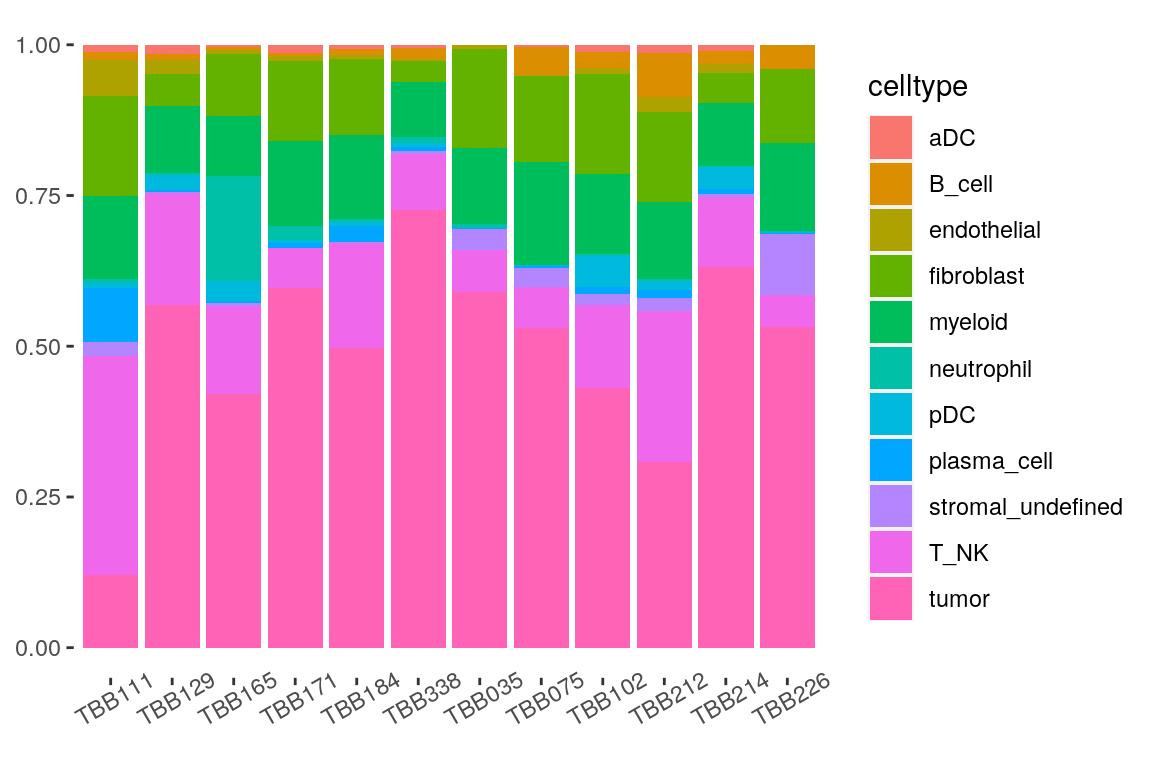
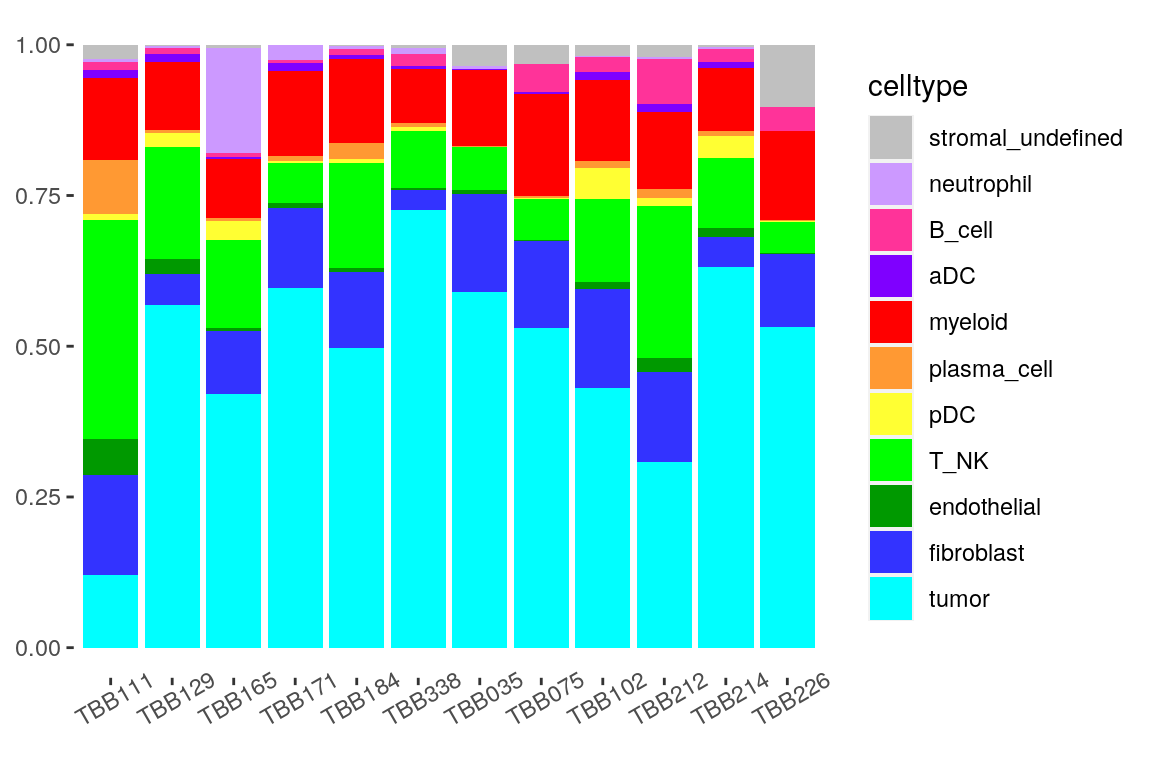
Build site.

diff --git a/docs/05_proteinPanel_StromalSubclustering.html b/docs/05_proteinPanel_StromalSubclustering.html
@@ -413,7 +413,7 @@ div.tocify {
 <div class="tab-content">
 <div id="summary" class="tab-pane fade in active">
 <p>
-<strong>Last updated:</strong> 2020-11-06
+<strong>Last updated:</strong> 2020-11-25
 </p>
 <p>
 <strong>Checks:</strong> <span class="glyphicon glyphicon-ok text-success" aria-hidden="true"></span> 7 <span class="glyphicon glyphicon-exclamation-sign text-danger" aria-hidden="true"></span> 0
@@ -504,16 +504,16 @@ This reproducible <a href="http://rmarkdown.rstudio.com">R Markdown</a> analysis
 <div class="panel panel-default">
 <div class="panel-heading">
 <p class="panel-title">
-<a data-toggle="collapse" data-parent="#workflowr-checks" href="#strongRepositoryversionstrongahrefhttpsgithubcomSandraTietscherBCexhIMCtree11f349146fdc04986d986a9543279f5648a6e786targetblank11f3491a"> <span class="glyphicon glyphicon-ok text-success" aria-hidden="true"></span> <strong>Repository version:</strong> <a href="https://github.com/SandraTietscher/BCexh_IMC/tree/11f349146fdc04986d986a9543279f5648a6e786" target="_blank">11f3491</a> </a>
+<a data-toggle="collapse" data-parent="#workflowr-checks" href="#strongRepositoryversionstrongahrefhttpsgithubcomSandraTietscherBCexhIMCtree30ad478543ed28e29ea5314e303da4f30621d798targetblank30ad478a"> <span class="glyphicon glyphicon-ok text-success" aria-hidden="true"></span> <strong>Repository version:</strong> <a href="https://github.com/SandraTietscher/BCexh_IMC/tree/30ad478543ed28e29ea5314e303da4f30621d798" target="_blank">30ad478</a> </a>
 </p>
 </div>
[2 lines of base64/hex data omitted]
 <div class="panel-body">
 <p>
 Great! You are using Git for version control. Tracking code development and connecting the code version to the results is critical for reproducibility.
 </p>
 <p>
-The results in this page were generated with repository version <a href="https://github.com/SandraTietscher/BCexh_IMC/tree/11f349146fdc04986d986a9543279f5648a6e786" target="_blank">11f3491</a>. See the <em>Past versions</em> tab to see a history of the changes made to the R Markdown and HTML files.
+The results in this page were generated with repository version <a href="https://github.com/SandraTietscher/BCexh_IMC/tree/30ad478543ed28e29ea5314e303da4f30621d798" target="_blank">30ad478</a>. See the <em>Past versions</em> tab to see a history of the changes made to the R Markdown and HTML files.
 </p>
 <p>
 Note that you need to be careful to ensure that all relevant files for the analysis have been committed to Git prior to generating the results (you can use <code>wflow_publish</code> or <code>wflow_git_commit</code>). workflowr only checks the R Markdown file, but you know if there are other scripts or data files that it depends on. Below is the status of the Git repository when the results were generated:
@@ -521,17 +521,28 @@ Note that you need to be careful to ensure that all relevant files for the analy
 <pre><code>
 Ignored files:
     Ignored:    analysis/.Rhistory
+    Ignored:    analysis/figure/
 
 Untracked files:
-    Untracked:  analysis/11_RNAscope_cytokine_communities.Rmd
+    Untracked:  CD11c_CD68_scatter.png
+    Untracked:  Neighbourhood_TLS_relative.pdf
+    Untracked:  Neighbourhood_TLS_relative.png
+    Untracked:  Neighbourhood_all_relative.pdf
+    Untracked:  Neighbourhood_all_relative.png
+    Untracked:  analysis/13_proteinPanel_neighbourhood_extended.Rmd
     Untracked:  analysis/XX_RNApanel_neighbourhood.Rmd
-    Untracked:  data/Ki67_IHC.csv
+    Untracked:  cytokine_environment.png
     Untracked:  data/RNAseq_Tcells.rds
     Untracked:  data/RNAseq_epithelial.rds
     Untracked:  data/ROI_info_HIER.csv
     Untracked:  data/ROI_info_RNAscope.csv
     Untracked:  data/cpout/
     Untracked:  data/masks/
+    Untracked:  heatmap_markerexpression_myeloid_sub.png
+    Untracked:  neighbourhood_myeloid_TIGdifference.png
+    Untracked:  neighbourhood_myeloid_TLS_relative.png
+    Untracked:  neighbourhood_myeloid_all_relative.png
+    Untracked:  neighbourhood_myeloid_split_TLS.png
     Untracked:  output/ProteinPanel/
     Untracked:  output/RNApanel/
     Untracked:  output/TLS_score_25samples.png
@@ -541,6 +552,12 @@ Untracked files:
     Untracked:  output/sce_RNApanel_afterQC.rds
     Untracked:  output/sce_RNApanel_initial.rds
     Untracked:  output/sce_RNApanel_initial_TLSrevised.rds
+    Untracked:  test.pdf
+    Untracked:  test.png
+    Untracked:  test_Treg_enrichment.png
+
+Unstaged changes:
+    Modified:   analysis/11_RNAscope_cytokine_communities.Rmd
 
 </code></pre>
 <p>
@@ -579,6 +596,40 @@ Message
 </tr>
 </thead>
 <tbody>
+<tr>
+<td>
+Rmd
+</td>
+<td>
+<a href="https://github.com/SandraTietscher/BCexh_IMC/blob/30ad478543ed28e29ea5314e303da4f30621d798/analysis/05_proteinPanel_StromalSubclustering.Rmd" target="_blank">30ad478</a>
+</td>
+<td>
+SandraTietscher
+</td>
+<td>
+2020-11-25
+</td>
+<td>
+Figure updates for Supplemental Fig. S2
+</td>
+</tr>
+<tr>
+<td>
+html
+</td>
+<td>
+<a href="https://rawcdn.githack.com/SandraTietscher/BCexh_IMC/07fbe3320c8599bfb4d2ddf8d527328b5ee214c4/docs/05_proteinPanel_StromalSubclustering.html" target="_blank">07fbe33</a>
+</td>
+<td>
+SandraTietscher
+</td>
+<td>
+2020-11-06
+</td>
+<td>
+Build site.
+</td>
+</tr>
 <tr>
 <td>
 Rmd
@@ -756,6 +807,7 @@ library(cowplot)
 library(ggpubr)
 library(scran)
 library(plyr)
+library(patchwork)
 
 # Read SingleCellExperiment object (with stromal cells only)
 sce_stromal &lt;- readRDS(paste0(getwd(), &quot;/output/ProteinPanel/sce_ProteinPanel_stroma.rds&quot;))</code></pre>
@@ -1227,6 +1279,17 @@ Date
 <tbody>
 <tr>
 <td>
+<a href="https://github.com/SandraTietscher/BCexh_IMC/blob/07fbe3320c8599bfb4d2ddf8d527328b5ee214c4/docs/figure/05_proteinPanel_StromalSubclustering.Rmd/stromal-labels-1.png" target="_blank">07fbe33</a>
+</td>
+<td>
+SandraTietscher
+</td>
+<td>
+2020-11-06
+</td>
+</tr>
+<tr>
+<td>
 <a href="https://github.com/SandraTietscher/BCexh_IMC/blob/84af25eba94c950776252dbe4f71eba992859dfb/docs/figure/05_proteinPanel_StromalSubclustering.Rmd/stromal-labels-1.png" target="_blank">84af25e</a>
 </td>
 <td>
@@ -1349,6 +1412,17 @@ Date
 <tbody>
 <tr>
 <td>
+<a href="https://github.com/SandraTietscher/BCexh_IMC/blob/07fbe3320c8599bfb4d2ddf8d527328b5ee214c4/docs/figure/05_proteinPanel_StromalSubclustering.Rmd/plot-celltype-umap-1.png" target="_blank">07fbe33</a>
+</td>
+<td>
+SandraTietscher
+</td>
+<td>
+2020-11-06
+</td>
+</tr>
+<tr>
+<td>
 <a href="https://github.com/SandraTietscher/BCexh_IMC/blob/84af25eba94c950776252dbe4f71eba992859dfb/docs/figure/05_proteinPanel_StromalSubclustering.Rmd/plot-celltype-umap-1.png" target="_blank">84af25e</a>
 </td>
 <td>
@@ -1363,17 +1437,39 @@ SandraTietscher
 </div>
 </div>
 </div>
+<div id="plot-expression-heatmap-with-celltype-labels" class="section level2">
+<h2>Plot expression heatmap with celltype labels</h2>
+<pre class="r"><code># dittoHeatmap(clustermean[markers_include_umap,], assay = &quot;normalized&quot;, scale = &quot;none&quot;,
+#             heatmap.colors = viridis(100), 
+#             cluster_cols = TRUE, show_colnames = TRUE, annot.by = &quot;celltype&quot;, annot.colors = 
+#               c(&quot;#7F00FF&quot;, &quot;#FF3399&quot;, &quot;#009900&quot;, &quot;#3333FF&quot;, &quot;#FF0000&quot;, &quot;#CC99FF&quot;, &quot;#FFFF33&quot;, &quot;#FF9933&quot;, &quot;#C0C0C0&quot;, &quot;#00FF00&quot;))    </code></pre>
+</div>
 <div id="plot-celltype-proportions-per-sample-and-per-image" class="section level2">
 <h2>Plot celltype proportions per sample and per image</h2>
 <p>Include TLS and pre-TLS images.</p>
-<pre class="r"><code># Plot cell type frequencies per sample
+<pre class="r"><code>celltype_colors = c(tumor = &quot;#00FFFF&quot;,
+                          fibroblast = &quot;#3333FF&quot;,
+                          endothelial = &quot;#009900&quot;,
+                          T_NK = &quot;#00FF00&quot;,
+                          pDC = &quot;#FFFF33&quot;,
+                          plasma_cell = &quot;#FF9933&quot;,
+                          myeloid = &quot;#FF0000&quot;,
+                          aDC = &quot;#7F00FF&quot;,
+                          B_cell = &quot;#FF3399&quot;,
+                          neutrophil = &quot;#CC99FF&quot;,
+                          stromal_undefined = &quot;#C0C0C0&quot;
+                          )
+
+# Plot cell type frequencies per sample
 tab &lt;- as.data.frame(prop.table(table(sce_Protein$sample, sce_Protein$celltype), margin = 1))
 colnames(tab) &lt;- c(&quot;sample&quot;, &quot;celltype&quot;, &quot;proportion&quot;)
+tab$celltype &lt;- factor(tab$celltype, levels = rev(names(celltype_colors)))
 
 ggplot(tab, aes(sample, y = proportion, fill=celltype)) +
   geom_bar(stat=&quot;identity&quot;)+
   theme(axis.title.x=element_blank(), axis.title.y = element_blank())+
-  theme(panel.background = element_blank(), axis.text.x = element_text(angle = 30))</code></pre>
+  theme(panel.background = element_blank(), axis.text.x = element_text(angle = 30))+
+  scale_fill_manual(values = celltype_colors)</code></pre>
 <p><img src="figure/05_proteinPanel_StromalSubclustering.Rmd/celltype-proportion-sample-1.png" width="576" style="display: block; margin: auto;" /></p>
 <p>
 <button type="button" class="btn btn-default btn-xs btn-workflowr btn-workflowr-fig" data-toggle="collapse" data-target="#fig-celltype-proportion-sample-1">
@@ -1416,10 +1512,39 @@ SandraTietscher
 tab &lt;- as.data.frame(prop.table(table(sce_Protein$ImageNumber, sce_Protein$celltype), margin = 1))
 colnames(tab) &lt;- c(&quot;image&quot;, &quot;celltype&quot;, &quot;proportion&quot;)
 
-ggplot(tab, aes(image, y = proportion, fill=celltype)) +
+# Order images by tumor cell content
+tumor_tab &lt;- filter(tab, celltype == &quot;tumor&quot;)
+order &lt;- tumor_tab[order(tumor_tab$proportion),]$image
+tab$image &lt;- factor(tab$image, levels = order)
+tab$celltype &lt;- factor(tab$celltype, levels = rev(names(celltype_colors)))
+
+p_proportion &lt;- ggplot(tab, aes(image, y = proportion, fill=celltype)) +
   geom_bar(stat=&quot;identity&quot;)+
   theme(axis.title.x=element_blank(), axis.title.y = element_blank())+
-  theme(panel.background = element_blank(), axis.text.x = element_text(angle = 30))</code></pre>
+  theme(panel.background = element_blank(), axis.text.x = element_text(angle = 30))+
+  scale_fill_manual(values = celltype_colors)
+
+# Plot image metadata
+ROI_info &lt;- read.csv(&quot;data/ROI_info_HIER_TLSrevised.csv&quot;)
+ROI_info$RNApanel_ImageNumber &lt;- factor(ROI_info$RNApanel_ImageNumber, levels = order)
+ROI_info$sample &lt;- factor(ROI_info$sample, levels = levels(sce_stromal$sample))
+
+p_sample &lt;- ggplot(ROI_info, aes(x = RNApanel_ImageNumber, y = &quot;sample&quot;, fill = sample))+
+  geom_tile()+
+  scale_fill_manual(values = metadata(sce_stromal)$colour_vectors$sample)+
+  theme(panel.background = element_blank(), axis.text.x = element_blank(), axis.title = element_blank(), axis.ticks = element_blank())
+
+p_TLS &lt;- ggplot(ROI_info, aes(x = RNApanel_ImageNumber, y = &quot;TLS&quot;, fill = TLS))+
+  geom_tile()+
+  scale_fill_manual(values = metadata(sce_stromal)$colour_vectors$TLS)+
+  theme(panel.background = element_blank(), axis.text.x = element_blank(), axis.title = element_blank(), axis.ticks = element_blank())
+
+p_TIG &lt;- ggplot(ROI_info, aes(x = RNApanel_ImageNumber, y = &quot;TIG&quot;, fill = TIG))+
+  geom_tile()+
+  scale_fill_manual(values = metadata(sce_stromal)$colour_vectors$TIG)+
+  theme(panel.background = element_blank(), axis.text.x = element_blank(), axis.title = element_blank(), axis.ticks = element_blank())
+
+p_TLS/p_TIG/p_sample/p_proportion + plot_layout(heights = c(1,1,1,20), guides = &quot;collect&quot;)</code></pre>
 <p><img src="figure/05_proteinPanel_StromalSubclustering.Rmd/celltype-proportion-image-1.png" width="768" style="display: block; margin: auto;" /></p>
 <p>
 <button type="button" class="btn btn-default btn-xs btn-workflowr btn-workflowr-fig" data-toggle="collapse" data-target="#fig-celltype-proportion-image-1">
@@ -1461,7 +1586,9 @@ SandraTietscher
 </div>
 <div id="compare-celltype-proportions-per-tig" class="section level2">
 <h2>Compare celltype proportions per TIG</h2>
-<pre class="r"><code>tab &lt;- as.data.frame(prop.table(table(sce_Protein$sample, sce_Protein$celltype), margin = 1))
+<p>Exclude TLS and pre-TLS.</p>
+<pre class="r"><code>sce_TLSex &lt;- sce_Protein[,which(sce_Protein$TLS == &quot;no&quot;)]
+tab &lt;- as.data.frame(prop.table(table(sce_TLSex$sample, sce_TLSex$celltype), margin = 1))
 colnames(tab) &lt;- c(&quot;sample&quot;, &quot;celltype&quot;, &quot;proportion&quot;)
 TIG2 &lt;- c(&quot;TBB111&quot;, &quot;TBB129&quot;, &quot;TBB165&quot;, &quot;TBB171&quot;, &quot;TBB184&quot;, &quot;TBB338&quot;)
 tab$TIG &lt;- ifelse(tab$sample %in% TIG2, &quot;TIG2&quot;, &quot;TIG3&quot;)
@@ -1469,7 +1596,7 @@ tab$TIG &lt;- ifelse(tab$sample %in% TIG2, &quot;TIG2&quot;, &quot;TIG3&quot;)
 ggplot(tab, aes(x= TIG, y = proportion, color=TIG))+
   geom_boxplot()+
   geom_point()+
-  facet_wrap(~celltype, scales=&quot;free&quot;, ncol=6, strip.position=&quot;top&quot;)+
+  facet_wrap(~celltype, scales=&quot;fixed&quot;, ncol=6, strip.position=&quot;top&quot;)+
   theme(axis.ticks.x = element_blank(),
         axis.text.x=element_text(angle = 90, hjust=1),
         axis.title.x = element_blank(),
@@ -1478,7 +1605,7 @@ ggplot(tab, aes(x= TIG, y = proportion, color=TIG))+
         strip.background = element_blank(),
         legend.background = element_blank())+
   ylab(&quot;Of total [%]&quot;)+
-  stat_compare_means(method = &quot;wilcox.test&quot;, aes(label=..p.format..))</code></pre>
+  stat_compare_means(method = &quot;wilcox.test&quot;, aes(label=..p.format..), label.x.npc = &quot;middle&quot;, label.y.npc = 0.9)</code></pre>
 <p><img src="figure/05_proteinPanel_StromalSubclustering.Rmd/celltype-proportions-TIG-boxplot-1.png" width="960" style="display: block; margin: auto;" /></p>
 <p>
 <button type="button" class="btn btn-default btn-xs btn-workflowr btn-workflowr-fig" data-toggle="collapse" data-target="#fig-celltype-proportions-TIG-boxplot-1">
@@ -1556,7 +1683,7 @@ IMC_perc &lt;- filter(IMC_perc, sample != &quot;TBB338&quot;)
 
 ## Read in and adapt CyTOF celltypes ##
 cytof_perc &lt;- read.csv(paste0(getwd(), &quot;/data/cytof_celltype_prop.csv&quot;), row.names = 1)
-cytof_perc[&quot;other&quot;,] &lt;- cytof_perc[&quot;granulocyt&quot;,] + cytof_perc[&quot;other&quot;,]
+cytof_perc[&quot;other&quot;,] &lt;- cytof_perc[&quot;granulocyte&quot;,] + cytof_perc[&quot;other&quot;,]
 cytof_perc[&quot;myeloid&quot;, ] &lt;- cytof_perc[&quot;myeloid&quot;, ] + cytof_perc[&quot;dendritic cell&quot;, ]
 cytof_perc &lt;- cytof_perc[!(rownames(cytof_perc) %in% c(&quot;dendritic cell&quot;, &quot;granulocyte&quot;)),]
 rownames(cytof_perc) &lt;- c(&quot;endothelial&quot;, &quot;epithelial&quot;, &quot;fibroblast&quot;, &quot;B_cell&quot;, &quot;plasma_cell&quot;, &quot;myeloid&quot;, &quot;other&quot;, &quot;T_NK&quot;)
@@ -1628,6 +1755,7 @@ SandraTietscher
 <pre class="r"><code># Plot
 ggplot(celltype_perc, aes(x = method, y = proportion)) +
   geom_line(aes(group = sample, color = sample))+
+  scale_color_manual(values = sce_IMC@metadata$colour_vectors$sample)+
   facet_wrap(~celltype, scales = &quot;free&quot;, ncol = 4)+
   theme(axis.title.x = element_blank(),
         axis.text.x = element_text(angle = 30),
@@ -1769,6 +1897,48 @@ SandraTietscher
 </table>
 </div>
 </div>
+</div>
+</div>
+<div id="compare-cell-type-proportions-of-the-two-panels" class="section level1">
+<h1>Compare cell type proportions of the two panels</h1>
+<pre class="r"><code>sce_RNA &lt;- readRDS(&quot;output/RNApanel/sce_RNApanel_celltypes.rds&quot;)
+
+sce_RNA[,which(sce_RNA$celltype %in% c(&quot;stromal_SMA+&quot;, &quot;stromal_undefined&quot;))]$celltype &lt;- &quot;stromal&quot;
+sce_RNA[,which(sce_RNA$celltype == &quot;Bcell&quot;)]$celltype &lt;- &quot;B_cell&quot;
+sce_RNA[,which(sce_RNA$celltype %in% c(&quot;NK&quot;, &quot;T_CD4&quot;, &quot;T_CD8&quot;))]$celltype &lt;- &quot;T_NK&quot;
+
+sce_Protein[,which(sce_Protein$celltype %in% c(&quot;fibroblast&quot;, &quot;stromal_undefined&quot;, &quot;plasma_cell&quot;, &quot;pDC&quot;))]$celltype &lt;- &quot;stromal&quot;
+
+tab_protein &lt;- as.data.frame(prop.table(table(sce_Protein$ImageNumber, sce_Protein$celltype), margin = 1))
+tab_protein$panel &lt;- &quot;protein_panel&quot;
+tab_RNA &lt;- as.data.frame(prop.table(table(sce_RNA$ImageNumber, sce_RNA$celltype), margin = 1))
+tab_RNA$panel &lt;- &quot;RNA_panel&quot;
+
+tab_comb &lt;- rbind(tab_protein, tab_RNA)
+colnames(tab_comb) &lt;- c(&quot;ImageNumber&quot;, &quot;celltype&quot;, &quot;proportion&quot;, &quot;panel&quot;)
+
+# Plot
+ggplot(tab_comb, aes(panel, y = proportion, fill=celltype)) +
+  geom_bar(stat=&quot;identity&quot;)+
+  facet_wrap(~ImageNumber, ncol = 20)+
+  theme(axis.title.x=element_blank(), axis.title.y = element_blank())+
+  theme(panel.background = element_blank(), axis.text.x = element_text(angle = 30))</code></pre>
+<p><img src="figure/05_proteinPanel_StromalSubclustering.Rmd/celltype-comparison-panels-1.png" width="1440" style="display: block; margin: auto;" /></p>
+<pre class="r"><code>tab_protein &lt;- as.data.frame(prop.table(table(sce_Protein$sample, sce_Protein$celltype), margin = 1))
+tab_protein$panel &lt;- &quot;protein_panel&quot;
+tab_RNA &lt;- as.data.frame(prop.table(table(sce_RNA$sample, sce_RNA$celltype), margin = 1))
+tab_RNA$panel &lt;- &quot;RNA_panel&quot;
+
+tab_comb &lt;- rbind(tab_protein, tab_RNA)
+colnames(tab_comb) &lt;- c(&quot;sample&quot;, &quot;celltype&quot;, &quot;proportion&quot;, &quot;panel&quot;)
+
+# Plot
+ggplot(tab_comb, aes(panel, y = proportion, fill=celltype)) +
+  geom_bar(stat=&quot;identity&quot;)+
+  facet_wrap(~sample, ncol = 20)+
+  theme(axis.title.x=element_blank(), axis.title.y = element_blank())+
+  theme(panel.background = element_blank(), axis.text.x = element_text(angle = 30))</code></pre>
+<p><img src="figure/05_proteinPanel_StromalSubclustering.Rmd/celltype-comparison-panels-samplebased-1.png" width="960" style="display: block; margin: auto;" /></p>
 <br>
 <p>
 <button type="button" class="btn btn-default btn-workflowr btn-workflowr-sessioninfo" data-toggle="collapse" data-target="#workflowr-sessioninfo" style="display: block;">
@@ -1797,20 +1967,21 @@ attached base packages:
 [8] methods   base     
 
 other attached packages:
- [1] plyr_1.8.6                  scran_1.16.0               
- [3] ggpubr_0.4.0                cowplot_1.0.0              
- [5] viridis_0.5.1               viridisLite_0.3.0          
- [7] dittoSeq_1.0.2              forcats_0.5.0              
- [9] stringr_1.4.0               dplyr_1.0.1                
-[11] purrr_0.3.4                 readr_1.3.1                
-[13] tidyr_1.1.1                 tibble_3.0.3               
-[15] tidyverse_1.3.0             scater_1.16.2              
-[17] SingleCellExperiment_1.10.1 SummarizedExperiment_1.18.2
-[19] DelayedArray_0.14.1         matrixStats_0.56.0         
-[21] Biobase_2.48.0              GenomicRanges_1.40.0       
-[23] GenomeInfoDb_1.24.2         IRanges_2.22.2             
-[25] S4Vectors_0.26.1            BiocGenerics_0.34.0        
-[27] ggplot2_3.3.2               workflowr_1.6.2            
+ [1] patchwork_1.0.1             plyr_1.8.6                 
+ [3] scran_1.16.0                ggpubr_0.4.0               
+ [5] cowplot_1.0.0               viridis_0.5.1              
+ [7] viridisLite_0.3.0           dittoSeq_1.0.2             
+ [9] forcats_0.5.0               stringr_1.4.0              
+[11] dplyr_1.0.1                 purrr_0.3.4                
+[13] readr_1.3.1                 tidyr_1.1.1                
+[15] tibble_3.0.3                tidyverse_1.3.0            
+[17] scater_1.16.2               SingleCellExperiment_1.10.1
+[19] SummarizedExperiment_1.18.2 DelayedArray_0.14.1        
+[21] matrixStats_0.56.0          Biobase_2.48.0             
+[23] GenomicRanges_1.40.0        GenomeInfoDb_1.24.2        
+[25] IRanges_2.22.2              S4Vectors_0.26.1           
+[27] BiocGenerics_0.34.0         ggplot2_3.3.2              
+[29] workflowr_1.6.2            
 
 loaded via a namespace (and not attached):
   [1] ggbeeswarm_0.6.0          colorspace_1.4-1         
@@ -1863,7 +2034,6 @@ loaded via a namespace (and not attached):
  [95] reprex_0.3.0              digest_0.6.25            
  [97] httpuv_1.5.4              munsell_0.5.0            
  [99] beeswarm_0.2.3            vipor_0.4.5              </code></pre>
-</div>
 </div>
 </div>
 
